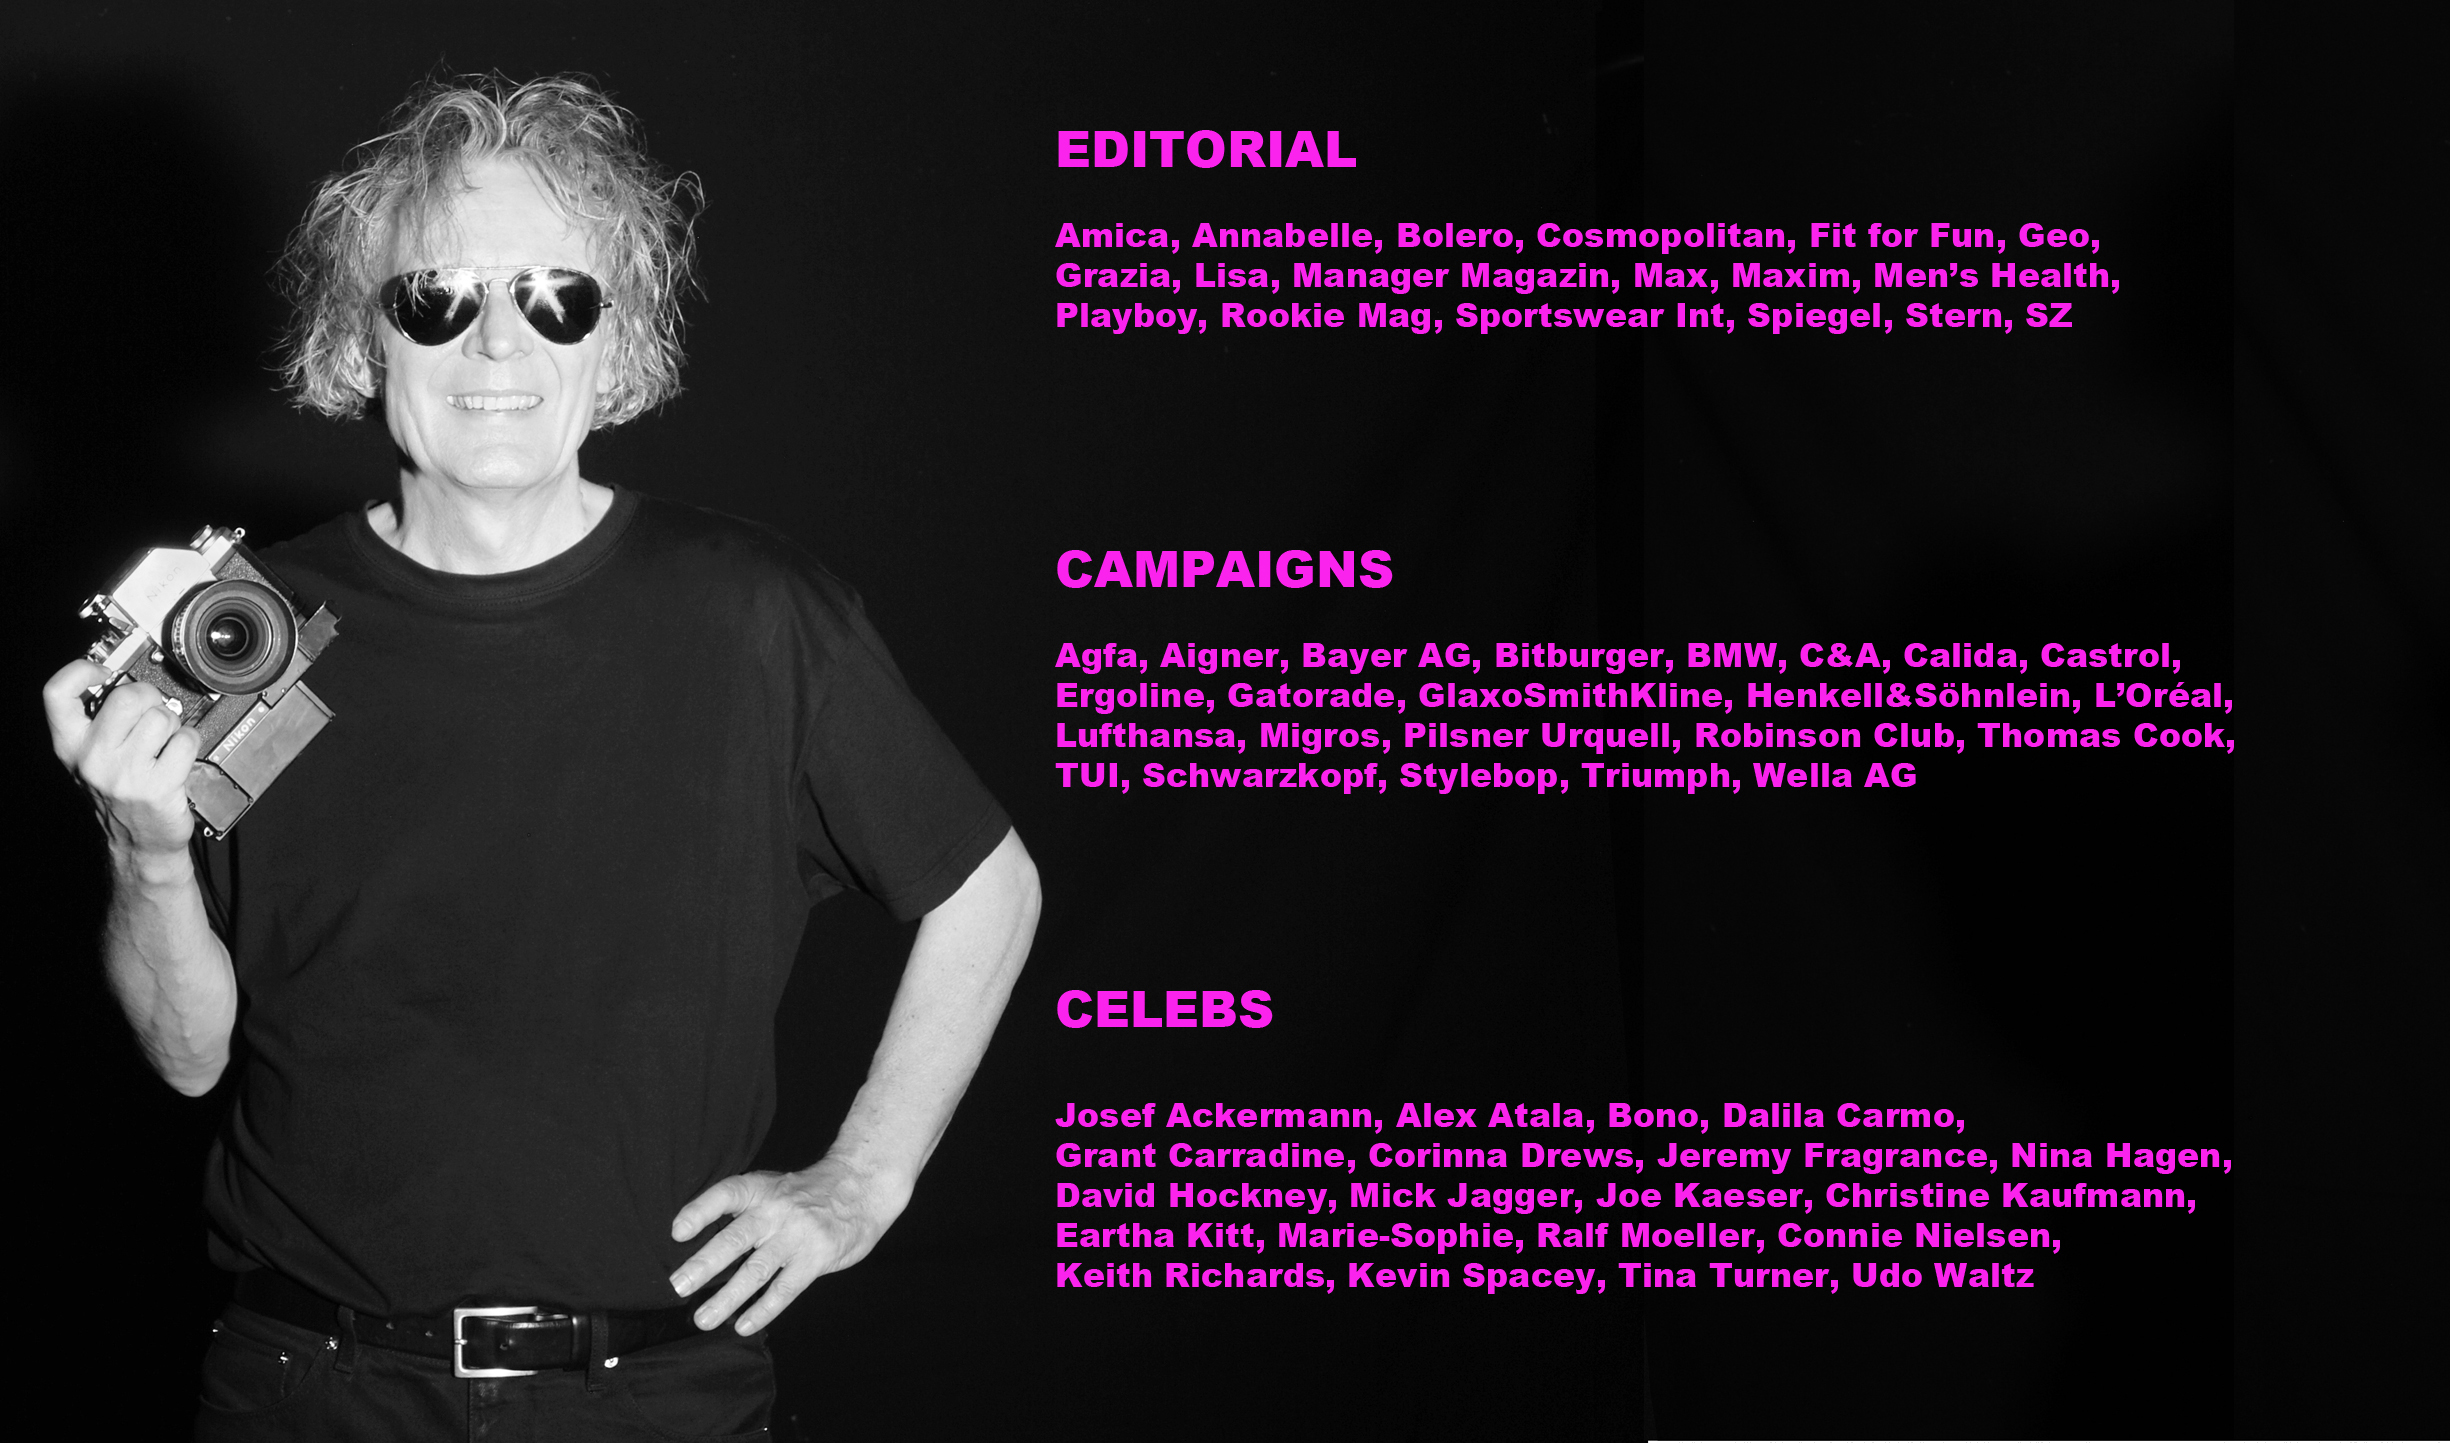
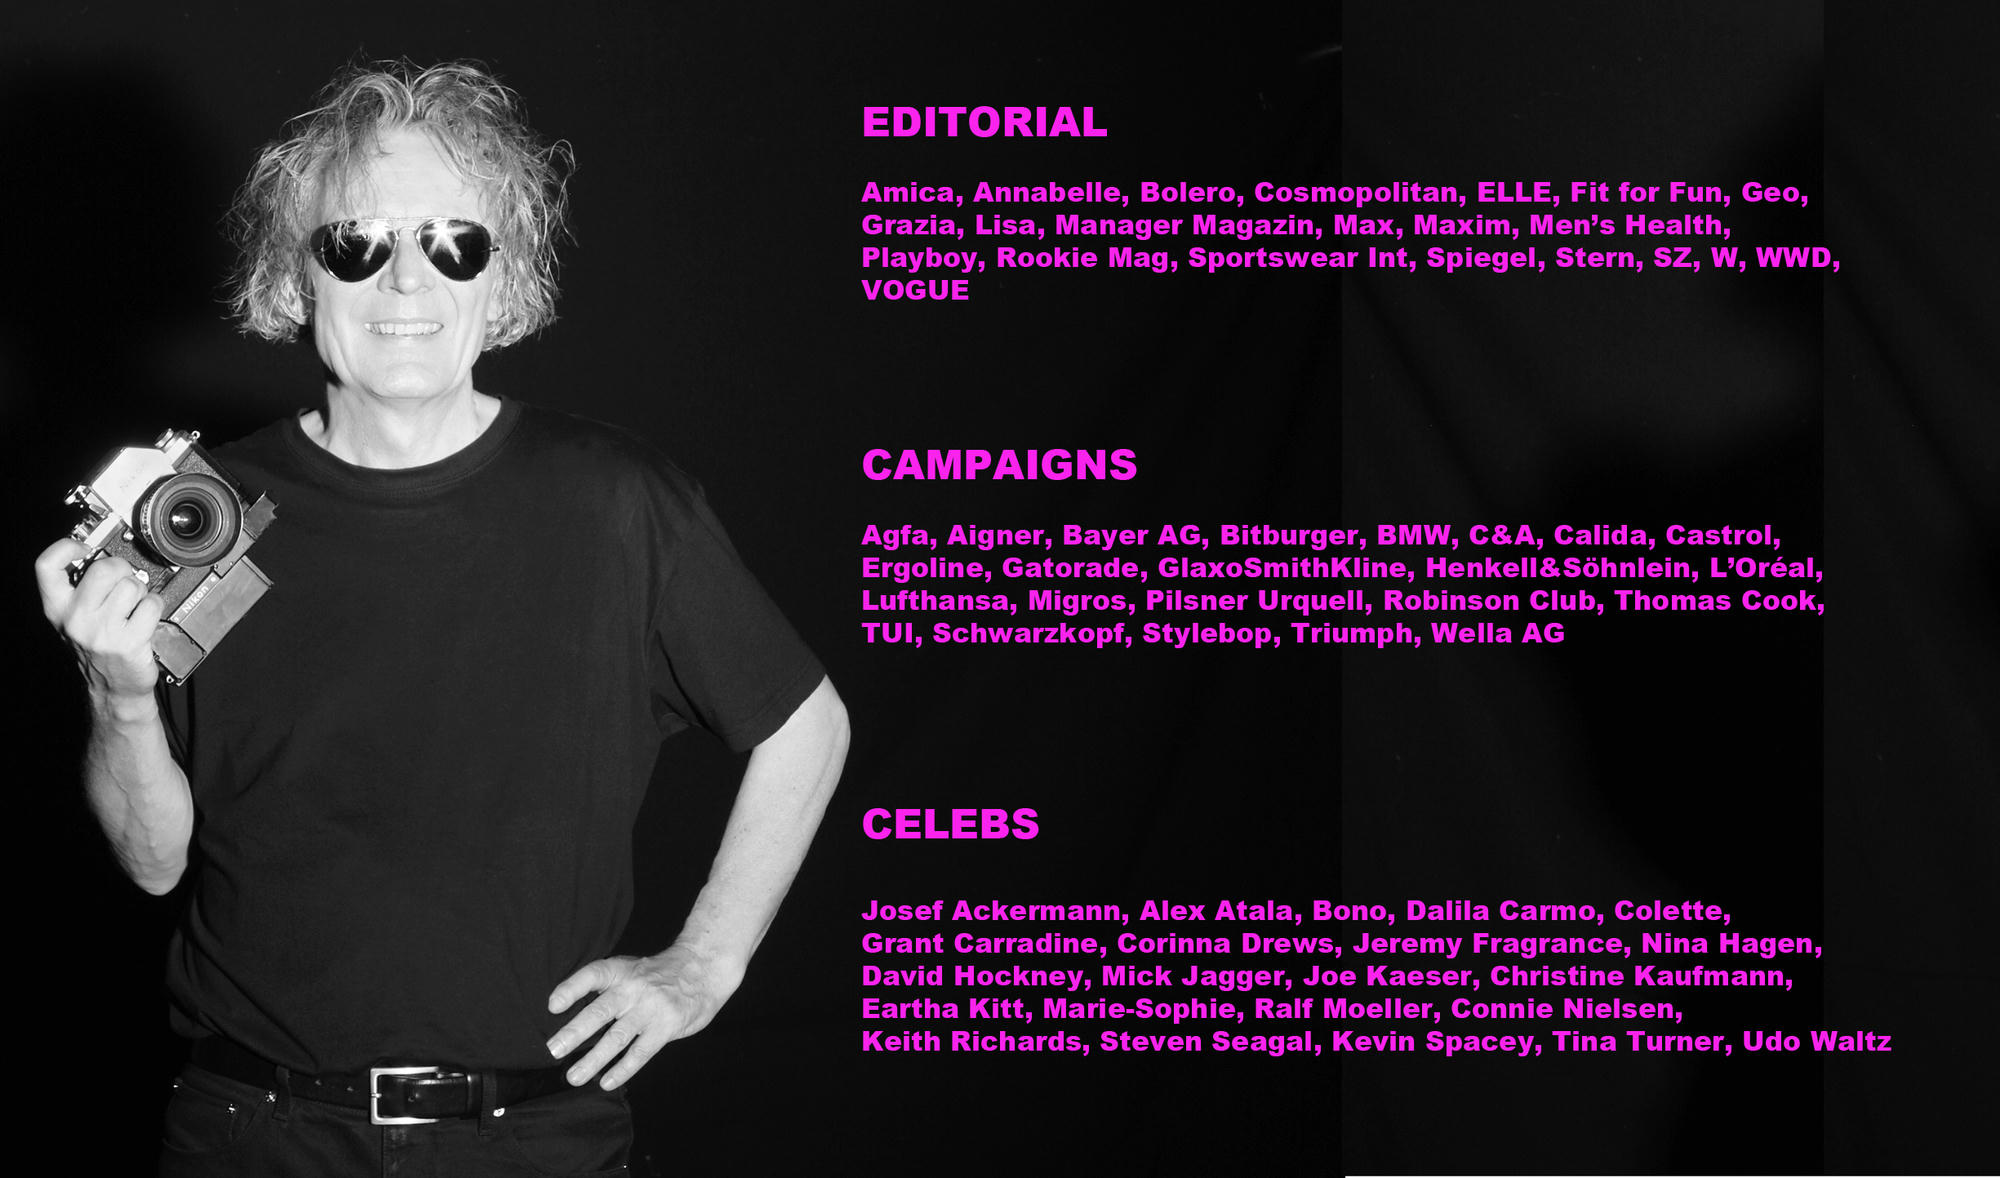
Update homepage about section

diff --git a/src/components/navbar.tsx b/src/components/navbar.tsx
@@ -19,8 +19,8 @@ export function Navbar() {
     { label: "Lifestyle", href: `${base}#lifestyle`, delay: 120 },
     { label: "Celebs",   href: `${base}#celebs`,   delay: 180 },
     { label: "Stills",   href: `${base}#stills`,   delay: 240 },
-    { label: "About",    href: "/about",            delay: 320 },
-    { label: "Contact",  href: "/about#reach-out",         delay: 380 },
+    { label: "About",    href: `${base}#about`,     delay: 320 },
+    { label: "Contact",  href: `${base}#reach-out`, delay: 380 },
   ];
 
   useEffect(() => {
@@ -62,7 +62,7 @@ export function Navbar() {
           </button>
 
           <Link
-            href="/about#reach-out"
+            href={`${base}#reach-out`}
             className="hidden text-xs tracking-[0.35em] text-white uppercase transition-all duration-200 hover:opacity-60 active:scale-95 md:block"
             style={arialBlack}
           >

diff --git a/src/data/content.ts b/src/data/content.ts
@@ -9,8 +9,8 @@ export type Category = {
 
 export const navLinks = [
   { label: "Portfolio", href: "#portfolio" },
-  { label: "About", href: "/about" },
-  { label: "Contact", href: "/about#reach-out" },
+  { label: "About", href: "/#about" },
+  { label: "Contact", href: "/#reach-out" },
 ];
 
 export const heroImages: string[] = [
@@ -28,6 +28,7 @@ export const heroImages: string[] = [
   "/media/fash12ww.jpg",
   "/media/fash13ww.jpg",
   "/media/fash14ww.jpg",
+  "/media/fash15ww.jpg",
 ];
 
 export const categories: Category[] = [

diff --git a/src/app/page.tsx b/src/app/page.tsx
@@ -1,4 +1,4 @@
-import { Footer } from "@/components/footer";
+import { About } from "@/components/about";
 import { Hero } from "@/components/hero";
 import { Navbar } from "@/components/navbar";
 import { Portfolio } from "@/components/portfolio";
@@ -12,8 +12,8 @@ export default function Home() {
         <Hero />
         <Portfolio />
         <Video />
+        <About />
       </main>
-      <Footer />
     </div>
   );
 }
